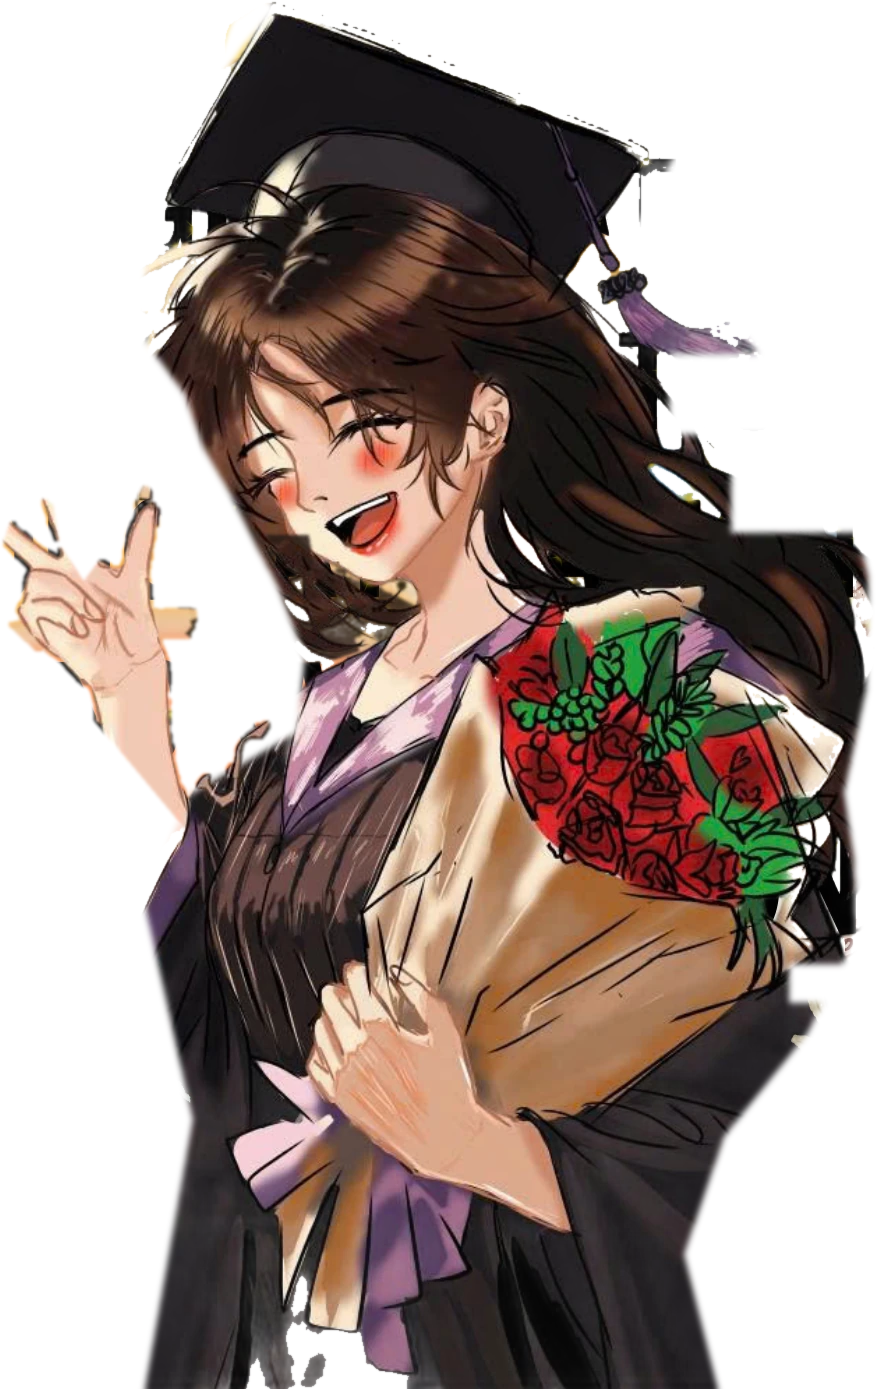
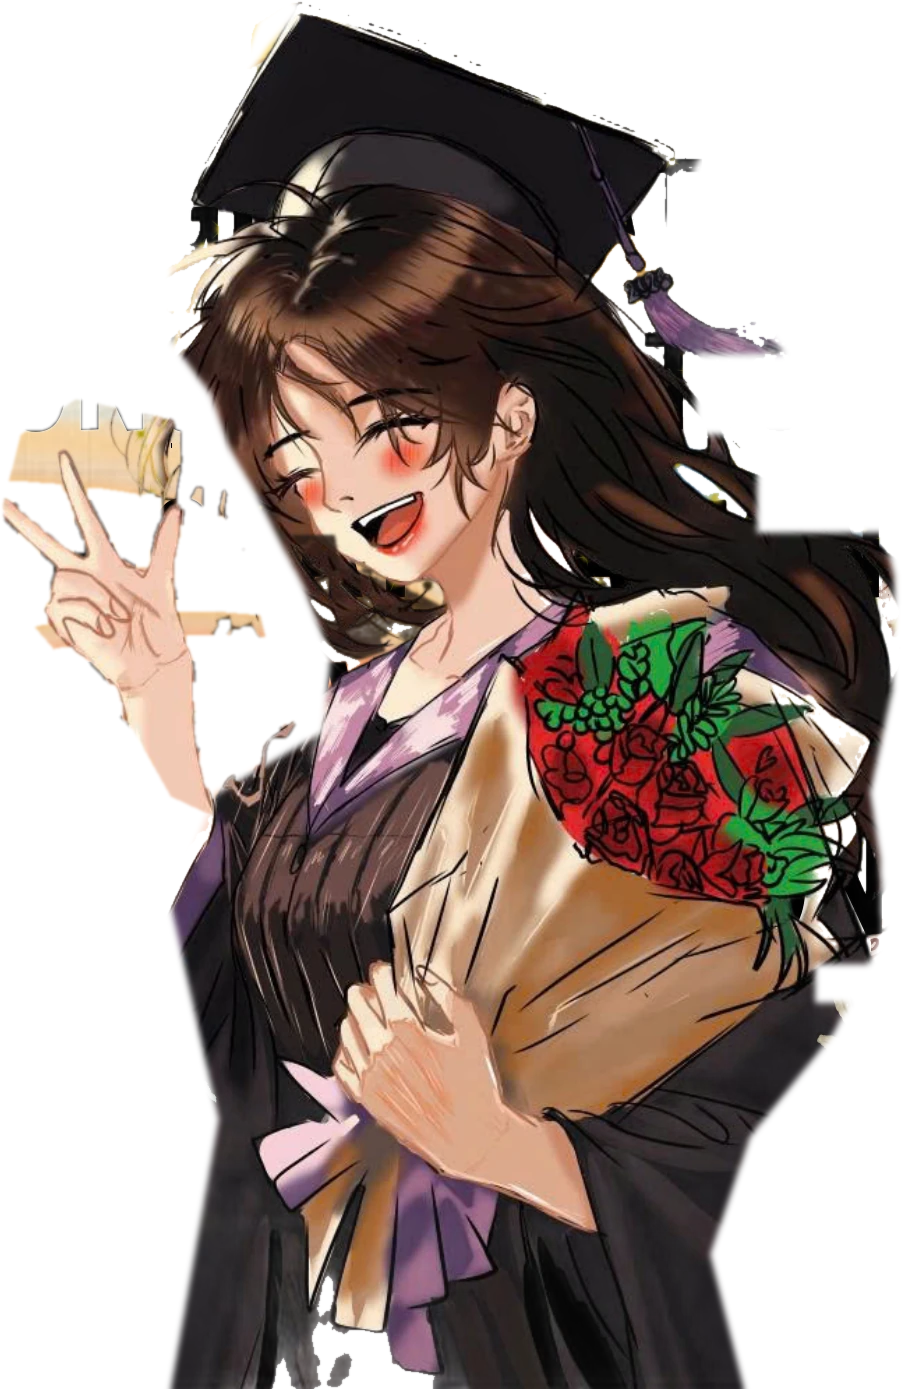
fix(hero): clean peace-sign hand cutout, keep full line-art detail
Bound the raised hand with a region and keep only skin inside it (drops the
sharp black serif letters and orange glow band a solid trace pulled in), then
morphologically close to refill the hand's own interior line-art without
regrowing the silhouette. Removes the messy halo around the hand during the
depth-of-field reveal while keeping finger creases and nail shading crisp.
Resync girl placement to the new cutout bbox.

diff --git a/index.html b/index.html
@@ -61,7 +61,7 @@
     transform-origin:50% 50%;
   }
   #girl{
-    left:61.346%; top:24.511%; width:33.692%; height:auto;
+    left:60.346%; top:24.511%; width:34.692%; height:auto;
     z-index:20; transform-origin:50% 90%;
     filter:drop-shadow(-10px 18px 22px rgba(35,20,6,.42));
   }
